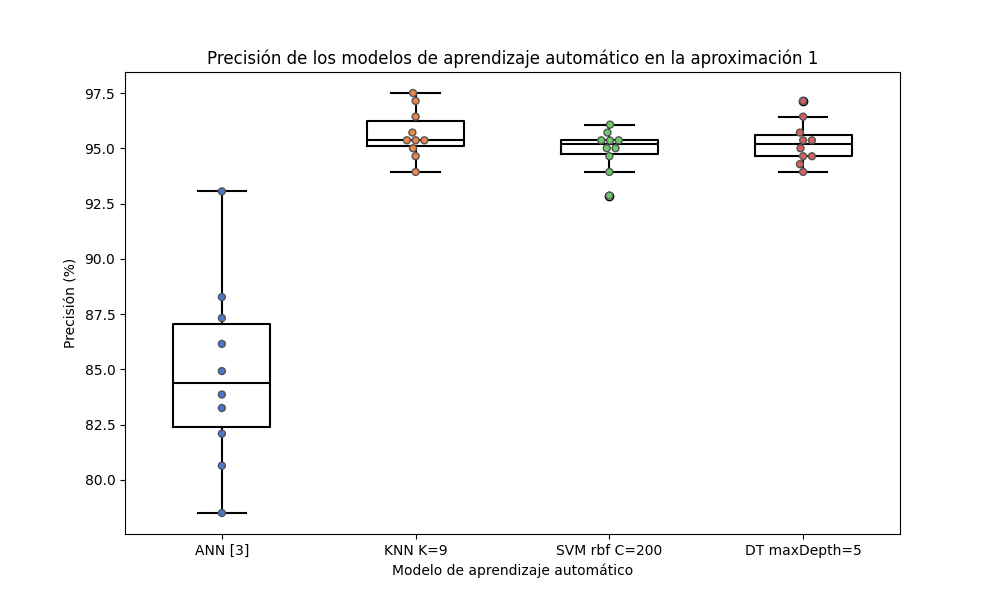
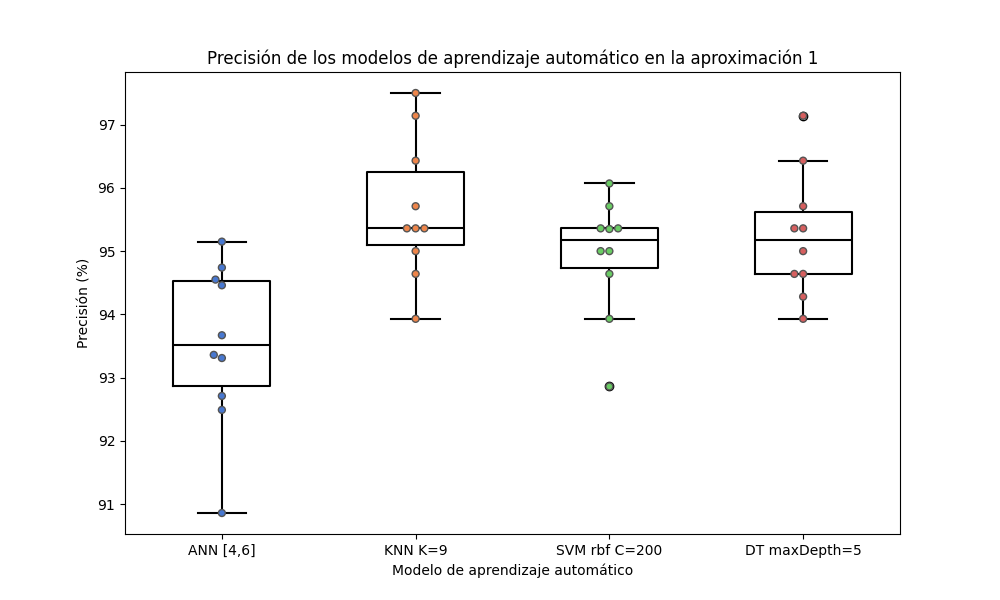
Grafica aprox1

diff --git a/swarm_plot.py b/swarm_plot.py
@@ -5,16 +5,16 @@ import pandas as pd
 data = [
 
     #APROX1
-    ["ANN [3]", 87.32, 1],
-    ["ANN [3]", 82.09, 1],
-    ["ANN [3]", 80.64, 1],
-    ["ANN [3]", 83.25, 1],
-    ["ANN [3]", 84.92, 1],
-    ["ANN [3]", 93.05, 1],
-    ["ANN [3]", 86.15, 1],
-    ["ANN [3]", 88.27, 1],
-    ["ANN [3]", 83.86, 1],
-    ["ANN [3]", 78.50, 1],
+    ["ANN [4,6]", 95.15, 1],
+    ["ANN [4,6]", 94.46, 1],
+    ["ANN [4,6]", 93.67, 1],
+    ["ANN [4,6]", 92.71, 1],
+    ["ANN [4,6]", 93.31, 1],
+    ["ANN [4,6]", 93.36, 1],
+    ["ANN [4,6]", 92.49, 1],
+    ["ANN [4,6]", 94.74, 1],
+    ["ANN [4,6]", 94.55, 1],
+    ["ANN [4,6]", 90.86, 1],
 
     ["KNN K=9", 95.36, 1],
     ["KNN K=9", 94.64, 1],
